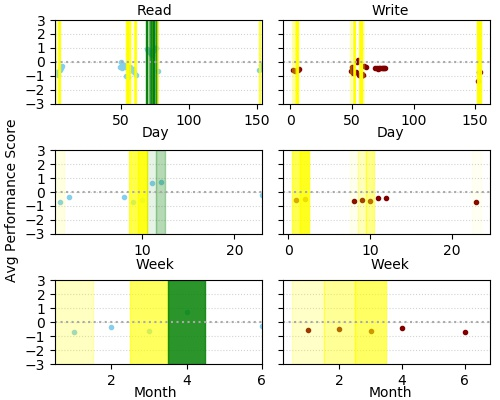
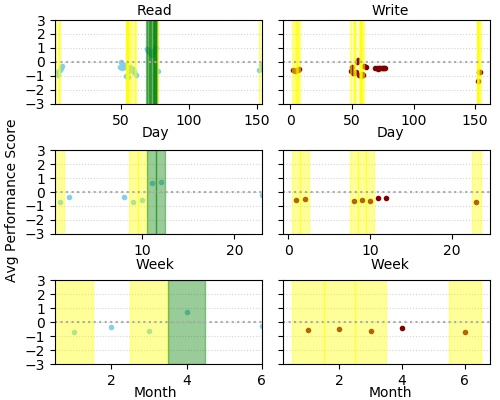
added phase coloring

diff --git a/example/simple_user.py b/example/simple_user.py
@@ -234,7 +234,6 @@ for app in top_apps:
 
     fig, axes = plt.subplots(3, 2, sharey=True, figsize=[5, 4])
     x_axes = ['Day','Week','Month']
-    alpha = 0.2
     for n in range(len(x_axes)):
         x_axis = x_axes[n]
         # First, plot read
@@ -249,12 +248,13 @@ for app in top_apps:
         axes[n][0].scatter(x, y, marker='.', color='skyblue',label=op)
         axes[n][0].set_ylim(-3, 3)
         for i in range(0,len(y)):
+            alpha = 0.2
             for r in np.arange(0.5,3.5,.5):
                 alpha = alpha+0.2
                 if y[i]>r:
-                    axes[n][0].axvspan(x[i]-0.5, x[i]+0.5, alpha=alpha, color='green')
+                    axes[n][0].axvspan(x[i]-0.5, x[i]+0.5, alpha=alpha, color='green', edgecolor=None)
                 elif y[i]<-r:
-                    axes[n][0].axvspan(x[i]-0.5, x[i]+0.5, alpha=alpha, color='yellow')
+                    axes[n][0].axvspan(x[i]-0.5, x[i]+0.5, alpha=alpha, color='yellow', edgecolor=None)
         axes[n][0].set_ylabel('')
         axes[n][0].set_yticks(np.arange(-3,4,1))
         axes[n][0].yaxis.grid(color='lightgrey', linestyle=':')
@@ -273,12 +273,13 @@ for app in top_apps:
         axes[n][1].scatter(x, y, marker='.', color='maroon',label=op)
         axes[n][1].set_ylim(-3, 3)
         for i in range(0,len(y)):
+            alpha = 0.2
             for r in np.arange(0.5,3.5,.5):
                 alpha = alpha+0.2
                 if y[i]>r:
-                    axes[n][1].axvspan(x[i]-0.5, x[i]+0.5, alpha=alpha, color='green')
+                    axes[n][1].axvspan(x[i]-0.5, x[i]+0.5, alpha=alpha, color='green', edgecolor=None)
                 elif y[i]<-r:
-                    axes[n][1].axvspan(x[i]-0.5, x[i]+0.5, alpha=alpha, color='yellow')
+                    axes[n][1].axvspan(x[i]-0.5, x[i]+0.5, alpha=alpha, color='yellow', edgecolor=None)
         axes[n][1].set_ylabel('')
         axes[n][1].yaxis.grid(color='lightgrey', linestyle=':')
         axes[n][1].set_axisbelow(True)
